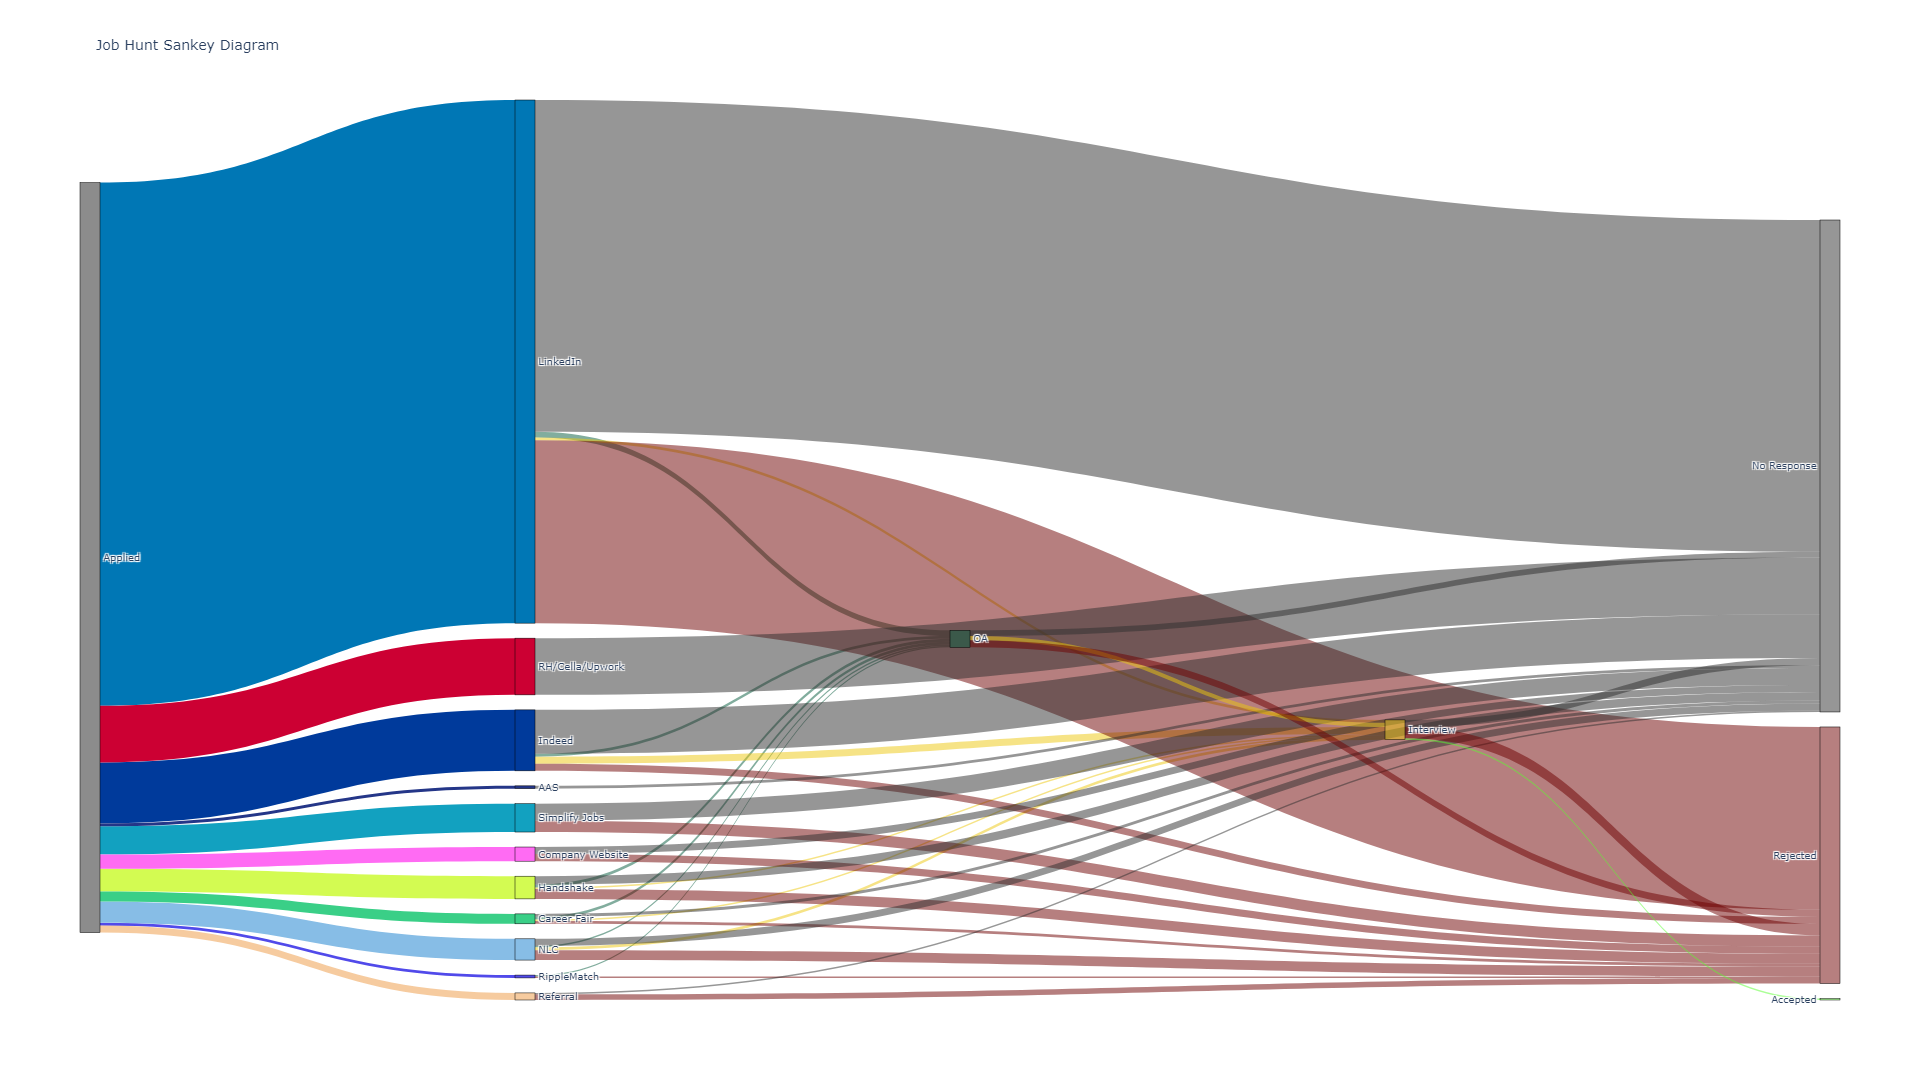
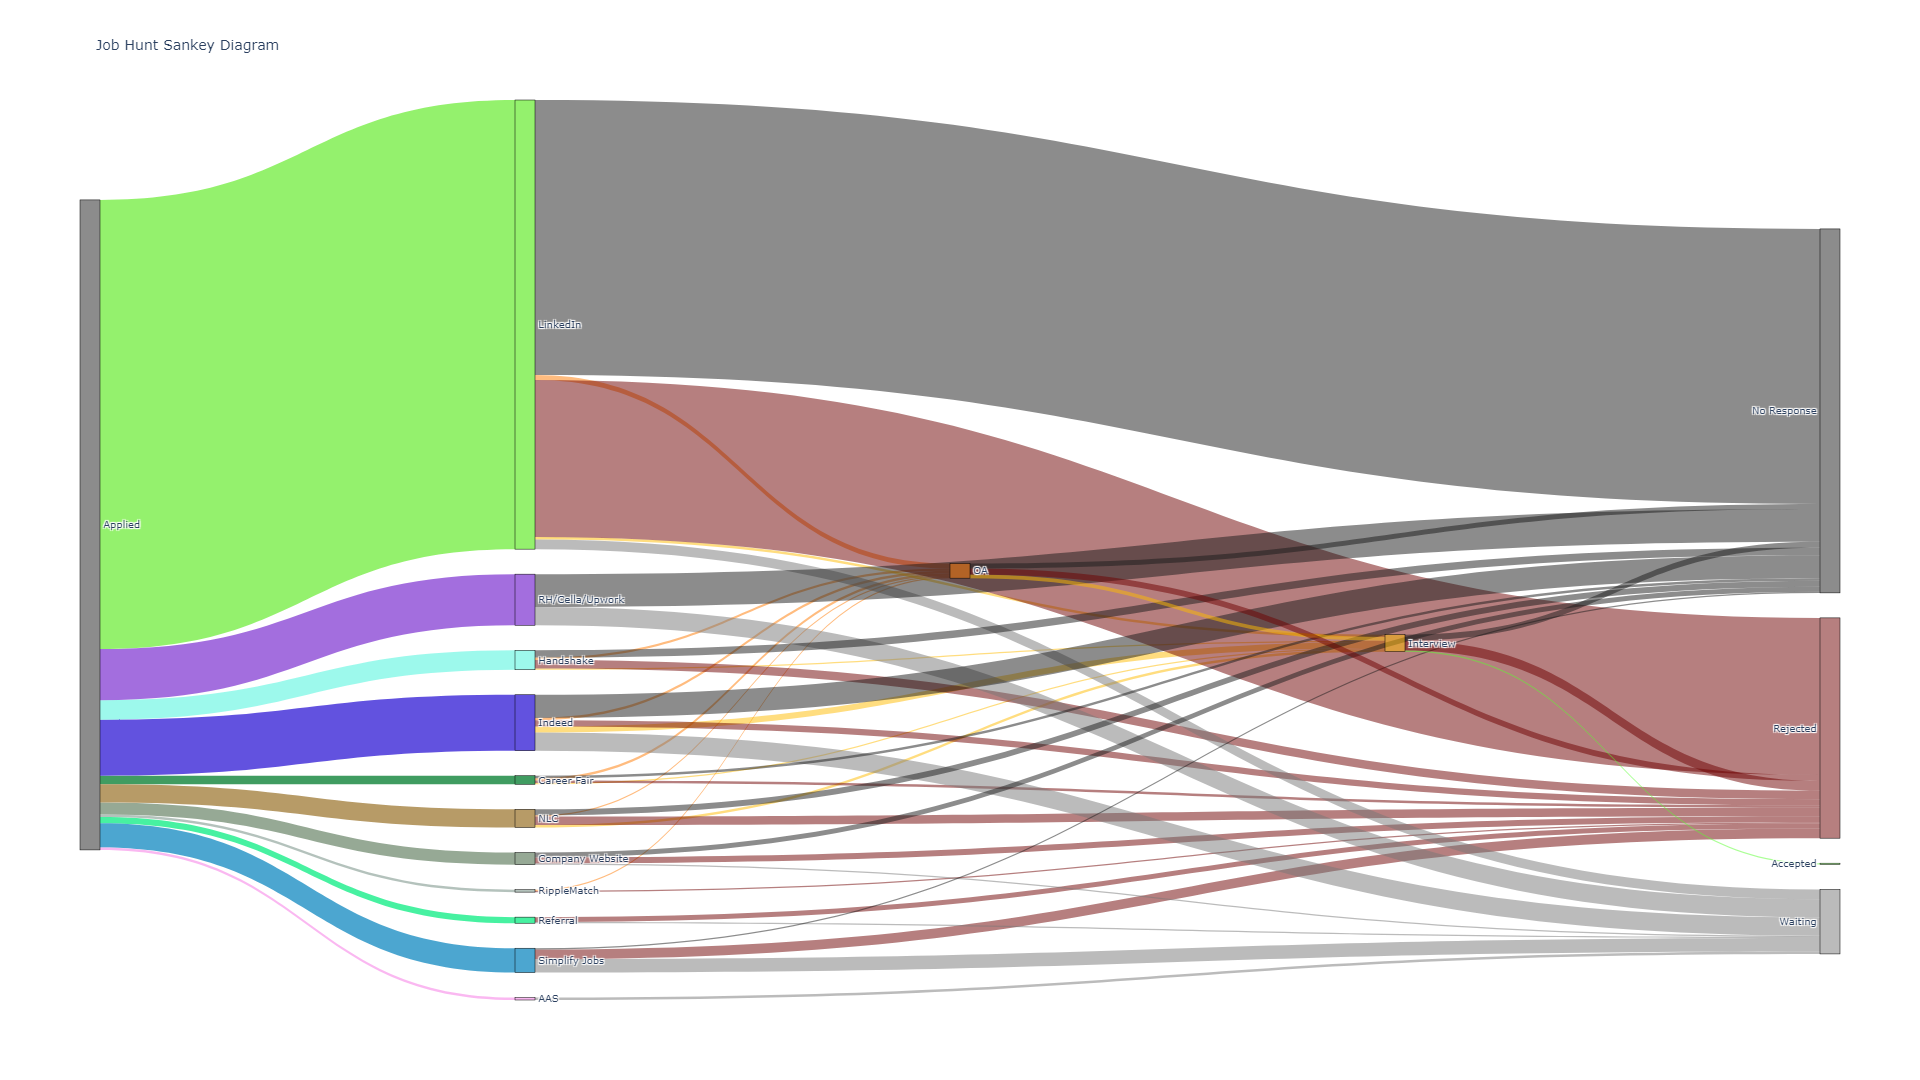
Fix colors

diff --git a/JobHuntSankey.py b/JobHuntSankey.py
@@ -4,6 +4,7 @@ import gspread
 import plotly.io as pio
 import datetime
 import numpy as np
+from random import randint
 
 # Image export settings
 pio.kaleido.scope.default_width = 1920
@@ -96,26 +97,28 @@ sources = [labelDict[key] for key in sankeyTable[:,0]]
 targets = [labelDict[key] for key in sankeyTable[:,1]]
 values = sankeyTable[:,2].tolist()
 
-# todo: add colors (random for job sources, red/gray/green for rejected/waiting/accepted, etc)
-'''
-colors = ['rgba(140, 140, 140, 1)', 'rgba(0, 119, 181, 1)', 'rgba(0, 58, 155, 1)', 'rgba(18, 161, 192, 1)', 'rgba(81, 74, 234, 1)', 
-'rgba(211, 251, 82, 1)', 'rgba(135, 189, 230, 1)', 'rgba(204, 0, 51, 1)', 'rgb(25, 41, 112)', 'rgba(58, 207, 135, 1)', 
-'rgba(255, 107, 243, 1)', 'rgba(237, 151, 64, 0.5)', 'rgba(237, 200, 14, 0.5)', 'rgba(6, 92, 63, 0.5)', 'rgba(110, 0, 0, 0.5)', 
-'rgba(46, 46, 46, 0.5)', 'rgba(88, 255, 46, 0.5)']
-jobDf['Color'] = jobDf.apply(lambda row: colors[int(row['Target'])], axis=1)
-'''
+# Add colors
+colors = ['rgba(140, 140, 140, 1)']
+for i in range(len(jobSources)):
+    colors.append('rgba(%d, %d, %d, 0.75)' % (randint(0,255),randint(0,255),randint(0,255)))
+colors = colors + ['rgba(255, 123, 0, 0.5)', 'rgba(255, 187, 0, 0.5)', 'rgba(110, 0, 0, 0.5)', 'rgba(121, 121, 121, 0.5)', 
+                  'rgba(26, 26, 26, 0.5)','rgba(88, 255, 46, 0.5)']
+
+targetColors = [colors[x] for x in targets] # Link colors correspond to the color of the target node
 
 fig = go.Figure(data=[go.Sankey(
     node = dict(
-      pad = 15,
+      pad = 25,
       thickness = 20,
       line = dict(color = "black", width = 0.5),
-      label = labels
+      label = labels,
+      color = colors
     ),
     link = dict(
       source = sources,
       target = targets,
-      value = values
+      value = values,
+      color = targetColors
   ))])
 
 fig.update_layout(title_text="Job Hunt Sankey Diagram", font_size=10)
